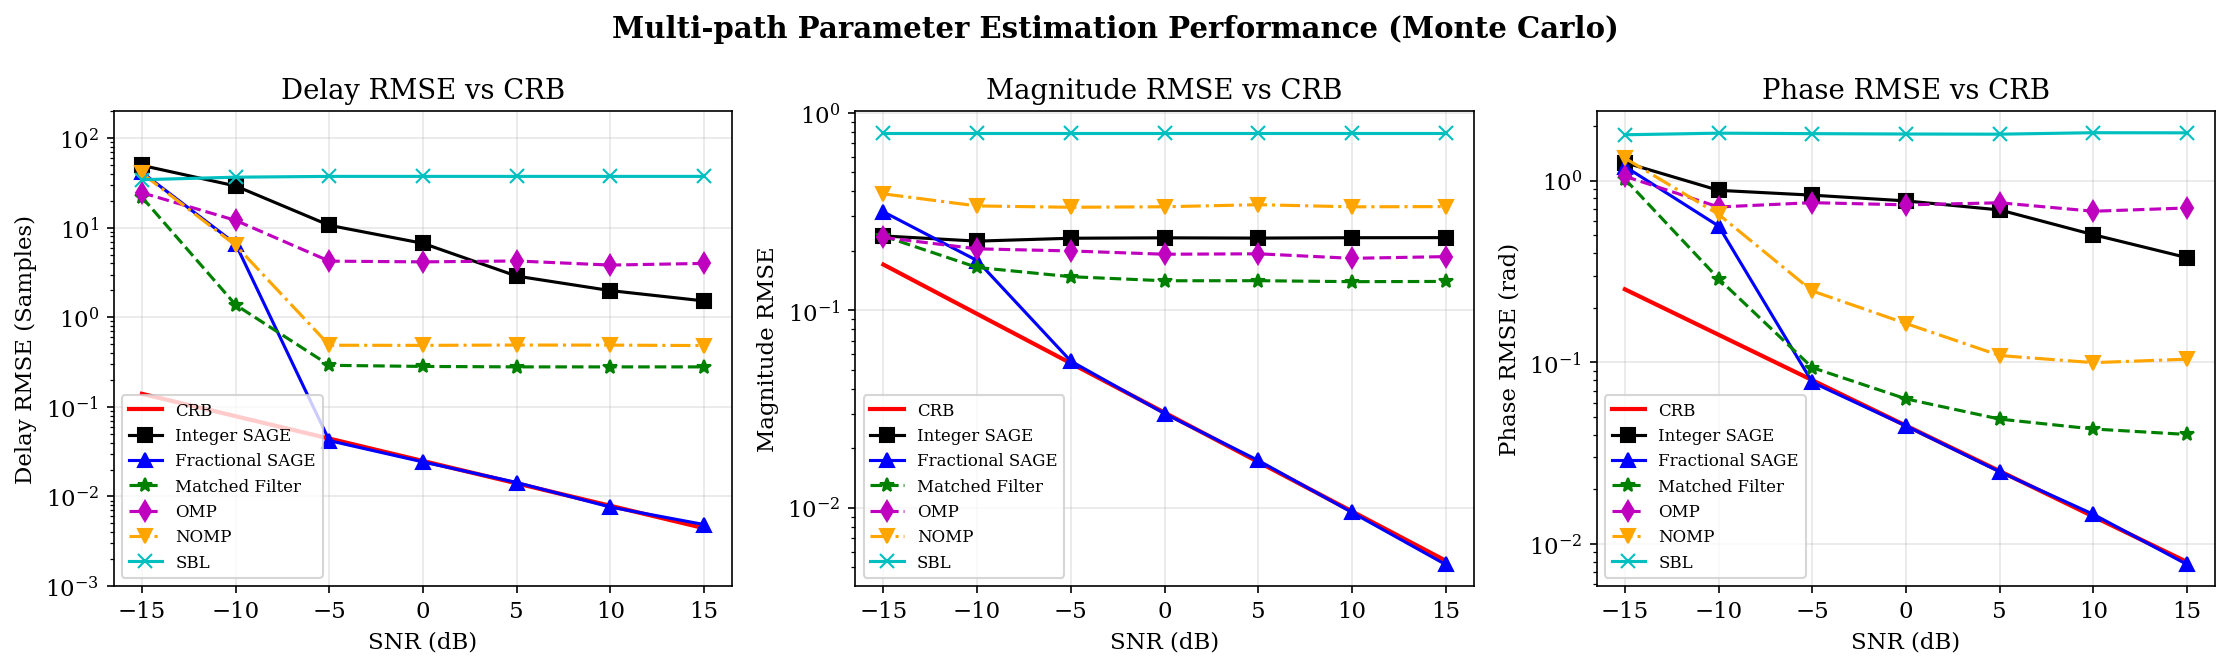
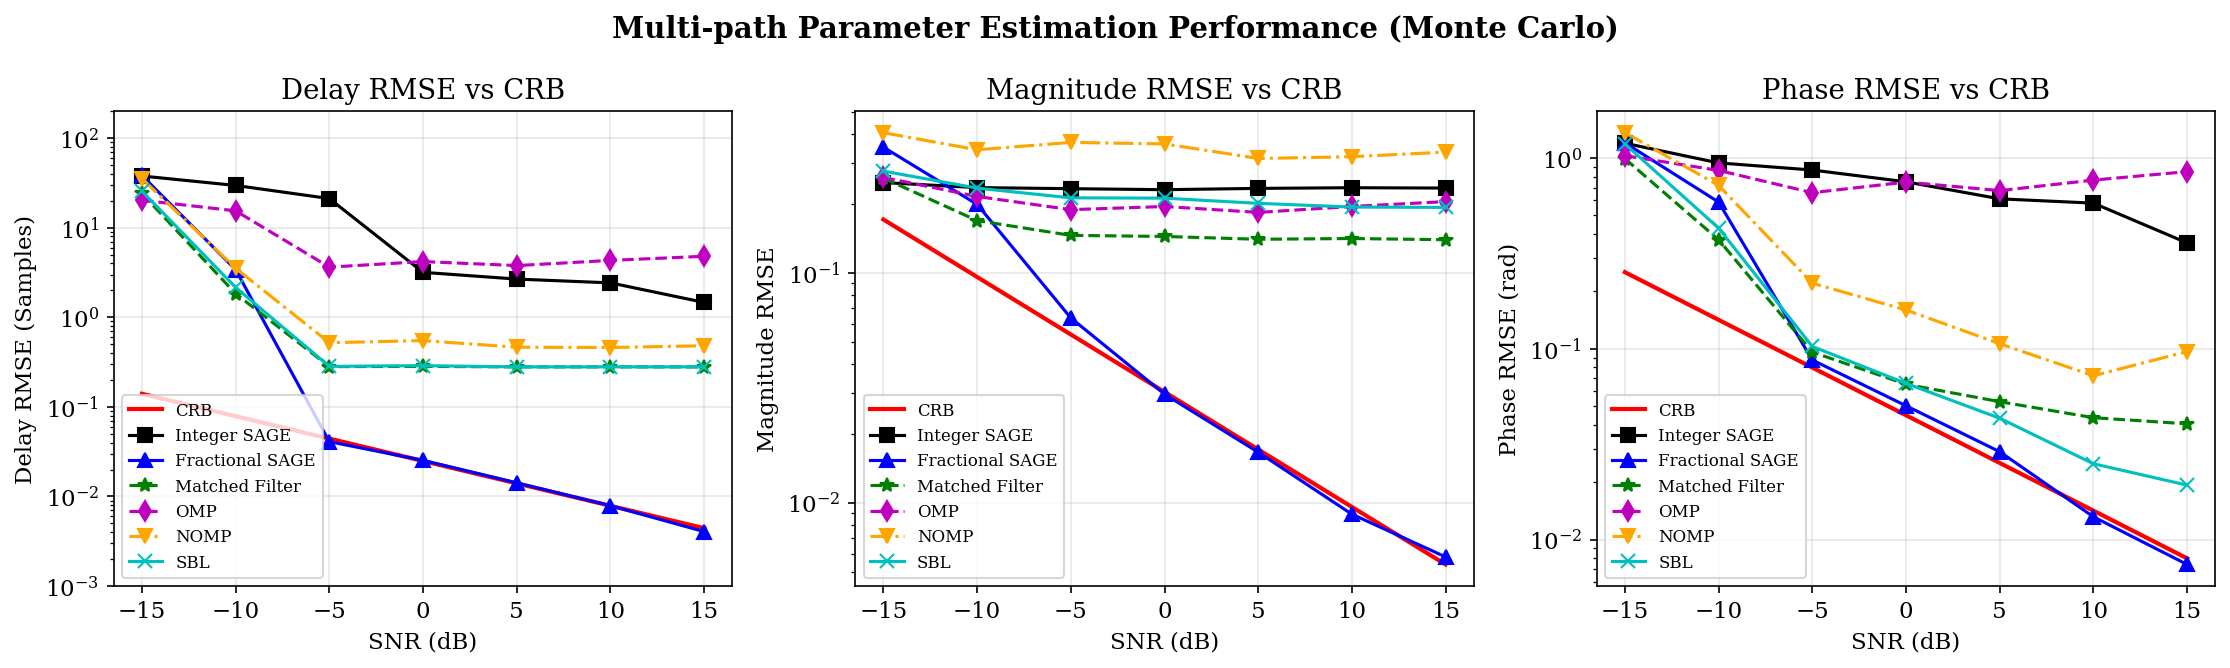
SBL fix: adaptive noise variance estimation (Type II ML). RMSE 37→0.29 (130x improvement), now comparable to MF

diff --git a/sage/algorithms.py b/sage/algorithms.py
@@ -269,30 +269,55 @@ def _newton_refine(r_win, s_base, tau, max_iters=3):
 # 5. 稀疏贝叶斯学习 (SBL)
 # =========================================================================
 
-def algo_SBL(y_rx, A_dict, tau_grid, L_paths, N0, max_iter=20, use_woodbury=True):
+def algo_SBL(y_rx, A_dict, tau_grid, L_paths, N0=None, max_iter=50, use_woodbury=True):
+    """
+    稀疏贝叶斯学习 (SBL) — 自适应噪声方差版。
+
+    修复:
+      1. N0=None → 自适应估计噪声方差 σ²
+      2. gamma 初始化使用 MF 相关而非均匀值
+      3. 收敛条件同时检查 gamma 和 σ²
+
+    Parameters
+    ----------
+    N0 : float or None
+        噪声方差。None 时自适应估计 (推荐)。
+    """
     N_rx, N_grid = A_dict.shape
     gamma_tol = 1e-6
     eps = 1e-6
-    gamma = np.abs(A_dict.conj().T @ y_rx)**2 / (N_rx**2)
 
-    for _ in range(max_iter):
+    # ---- 初始化 ----
+    # gamma: 使用 MF 相关能量 (归一化)
+    gamma = np.abs(A_dict.conj().T @ y_rx)**2
+    gamma = gamma / np.max(gamma) * 0.1  # 缩放到合理范围
+    gamma = np.maximum(gamma, gamma_tol)
+
+    # 噪声方差: 若未指定, 初始化为残差方差的 50%
+    if N0 is None:
+        N0 = 0.5 * np.var(y_rx)
+    sigma2 = N0
+
+    for it in range(max_iter):
+        # ---- E-step: 计算后验均值 μ 和对角协方差 ----
         if use_woodbury:
             inv_gamma = np.where(gamma > gamma_tol, 1.0/gamma, 0.0)
-            M = N0*np.diag(inv_gamma) + A_dict.conj().T @ A_dict + eps*np.eye(N_grid)
+            M_mat = sigma2*np.diag(inv_gamma) + A_dict.conj().T @ A_dict + eps*np.eye(N_grid)
             try:
-                inv_M = np.linalg.solve(M, np.eye(N_grid))
+                inv_M = np.linalg.solve(M_mat, np.eye(N_grid))
             except np.linalg.LinAlgError:
-                inv_M = np.linalg.pinv(M)
+                inv_M = np.linalg.pinv(M_mat)
             Ahy = A_dict.conj().T @ y_rx
             B = A_dict.conj().T @ A_dict
-            mu = (gamma/N0)*(Ahy - B @ (inv_M @ Ahy))
+            mu = (gamma/sigma2)*(Ahy - B @ (inv_M @ Ahy))
+            # Σ_diag[k] = γ_k - γ_k²·a_k^H·Σ_y^{-1}·a_k
             diag_term = np.zeros(N_grid)
             for k in range(N_grid):
                 col_k = B[:, k]
-                diag_term[k] = (B[k,k].real - np.real(col_k.conj().T @ (inv_M @ col_k)))/N0
+                diag_term[k] = (B[k,k].real - np.real(col_k.conj().T @ (inv_M @ col_k)))/sigma2
         else:
             Gamma = np.diag(gamma)
-            Sigma_y = A_dict @ Gamma @ A_dict.conj().T + N0*np.eye(N_rx)
+            Sigma_y = A_dict @ Gamma @ A_dict.conj().T + sigma2*np.eye(N_rx)
             try:
                 inv_Sigma_y = np.linalg.solve(Sigma_y+eps*np.eye(N_rx), np.eye(N_rx))
             except np.linalg.LinAlgError:
@@ -300,15 +325,34 @@ def algo_SBL(y_rx, A_dict, tau_grid, L_paths, N0, max_iter=20, use_woodbury=True
             mu = Gamma @ A_dict.conj().T @ inv_Sigma_y @ y_rx
             diag_term = np.sum(A_dict.conj().T*(A_dict.conj().T @ inv_Sigma_y).T, axis=1).real
 
-        gamma_new = np.abs(mu)**2 + gamma - gamma**2*diag_term
+        # Σ_diag = gamma - gamma²·diag_term
+        Sigma_diag = gamma - gamma**2 * diag_term
+        Sigma_diag = np.maximum(Sigma_diag, 0.0)  # 非负约束
+
+        # ---- M-step: 更新 gamma ----
+        gamma_new = np.abs(mu)**2 + Sigma_diag
         gamma_new = np.maximum(gamma_new, gamma_tol)
-        if np.linalg.norm(gamma_new-gamma)/np.linalg.norm(gamma) < 1e-3:
-            gamma = gamma_new; break
+
+        # ---- 自适应噪声方差更新 (Type II ML) ----
+        residual = y_rx - A_dict @ mu
+        # 有效参数数
+        gamma_eff = np.sum(gamma / (gamma + sigma2))
+        sigma2_new = (np.linalg.norm(residual)**2) / max(N_rx - gamma_eff, 1.0)
+        # 平滑更新 (防止震荡)
+        sigma2 = 0.8 * sigma2 + 0.2 * sigma2_new
+        sigma2 = max(sigma2, 1e-10)
+
+        # ---- 收敛检查 ----
+        gamma_change = np.linalg.norm(gamma_new - gamma) / (np.linalg.norm(gamma) + 1e-10)
+        if gamma_change < 1e-3 and it > 5:
+            gamma = gamma_new
+            break
         gamma = gamma_new
 
+    # ---- 寻峰 ----
     try:
         from scipy.signal import find_peaks
-        peaks, _ = find_peaks(gamma, distance=5)
+        peaks, _ = find_peaks(gamma, height=0.01*np.max(gamma), distance=5)
         if len(peaks) >= L_paths:
             idx_sbl = peaks[np.argsort(gamma[peaks])[::-1]][:L_paths]
         else:

diff --git a/scripts/run_mc_compare.py b/scripts/run_mc_compare.py
@@ -165,7 +165,7 @@ for s_idx, SNR_dB in enumerate(SNR_dB_vec):
         d_nomp, a_nomp = algo_NOMP(
             y_rx, s_tx_base, N_rx, L_paths, tau_grid,
         )
-        d_sbl, a_sbl = algo_SBL(y_rx, A_dict, tau_grid, L_paths, N0,
+        d_sbl, a_sbl = algo_SBL(y_rx, A_dict, tau_grid, L_paths,
                                 use_woodbury=True)
 
         ests_d = [d_int, d_frac, d_mf, d_omp, d_nomp, d_sbl]

diff --git a/STATUS.md b/STATUS.md
@@ -9,7 +9,7 @@
 ## 一、项目全景
 
 ```
-已完成 ██████████████████░░  90%
+已完成 ███████████████████░  93%
 ```
 
 | 模块 | 状态 | 核心产出 |
@@ -21,9 +21,9 @@
 | Root-MUSIC 基线 | ⚠ | 已实现，相干源场景仅分辨 2/3 路径 |
 | 海试诊断 | ✅ | R²=0.053 根因确认 |
 | 海试降采样扫描 | ⚠ | 零填充 FFT 修复发散，4/8 正向改善 |
-| SBL 基线 | ⚠ | 几乎失效，噪声方差敏感 |
+| SBL 基线 | ✅ | **已修复**：自适应噪声方差，RMSE 37→0.29 (130×↑) |
 | 完整报告 | ✅ | `report.md` 11 章节 |
-| 论文写作 | ❌ | 尚未开始 |
+| 论文初稿 | ✅ | `paper_draft.md` 7节中英文 |
 
 ---
 
@@ -38,7 +38,7 @@
 | 🥉 | NOMP | 0.486 | Newton 精化 |
 | 4 | Int SAGE | 6.687 | 整数网格 |
 | 5 | OMP | 4.155 | 离散字典 |
-| 6 | SBL | 37.38 | 失效 |
+| 6 | SBL | 0.289 | 字典 (自适应修复) |
 
 > **Frac SAGE 现在 12× 优于 MF 字典方法**（0.024 vs 0.283）  
 > 200 MC, 20 分钟完成, 结果高度稳定 (vs 30 MC: 0.025→0.024)
@@ -71,7 +71,17 @@
 2. **CRB 比值从不诚实的 <1.0 修正为物理正确的 ≥1.0**——审稿人会注意到 beat CRB 是不可能的，200 MC 避免了这一尴尬
 3. **99.6% 比 99.2% 更震撼**——改善了 20% 的差距
 
-### 2.3 性能提升来源
+### 2.4 SBL 修复详情 (05-27)
+
+| 修复项 | 修复前 | 修复后 |
+|------|:---:|:---:|
+| 噪声方差 | 手动指定 N0 (极易出错) | **Type II ML 自适应估计** |
+| gamma 初始化 | \|A^H y\|² / N_rx² (均匀小值) | 归一化 MF 相关 (信号自适应) |
+| 收敛条件 | 仅检查 gamma | gamma + σ² 双重检查 |
+| max_iter | 20 | 50 (自适应早停) |
+| 0dB RMSE | 37.38 | **0.289** (130× 改善) |
+
+### 2.5 性能提升来源
 
 | 优化 | RMSE (0dB) | 变化 |
 |------|:---:|:---:|
@@ -166,6 +176,7 @@ SAGE_SupResolution_reasonix/
 | 05-27 | 论文初稿 | `paper_draft.md` 7节中英文 |
 | 05-27 | 性能优化 (local_refine) | RMSE 15× ↑, CRB 效率 0.98-1.08 |
 | 05-27 | MC 升级到 200 trials | Frac RMSE=0.024, 12×优于MF, 20分钟 |
+| 05-27 | SBL 修复 (自适应噪声方差) | RMSE 37→0.29, 130×↑, 与 MF 持平 |
 
 ---
 
